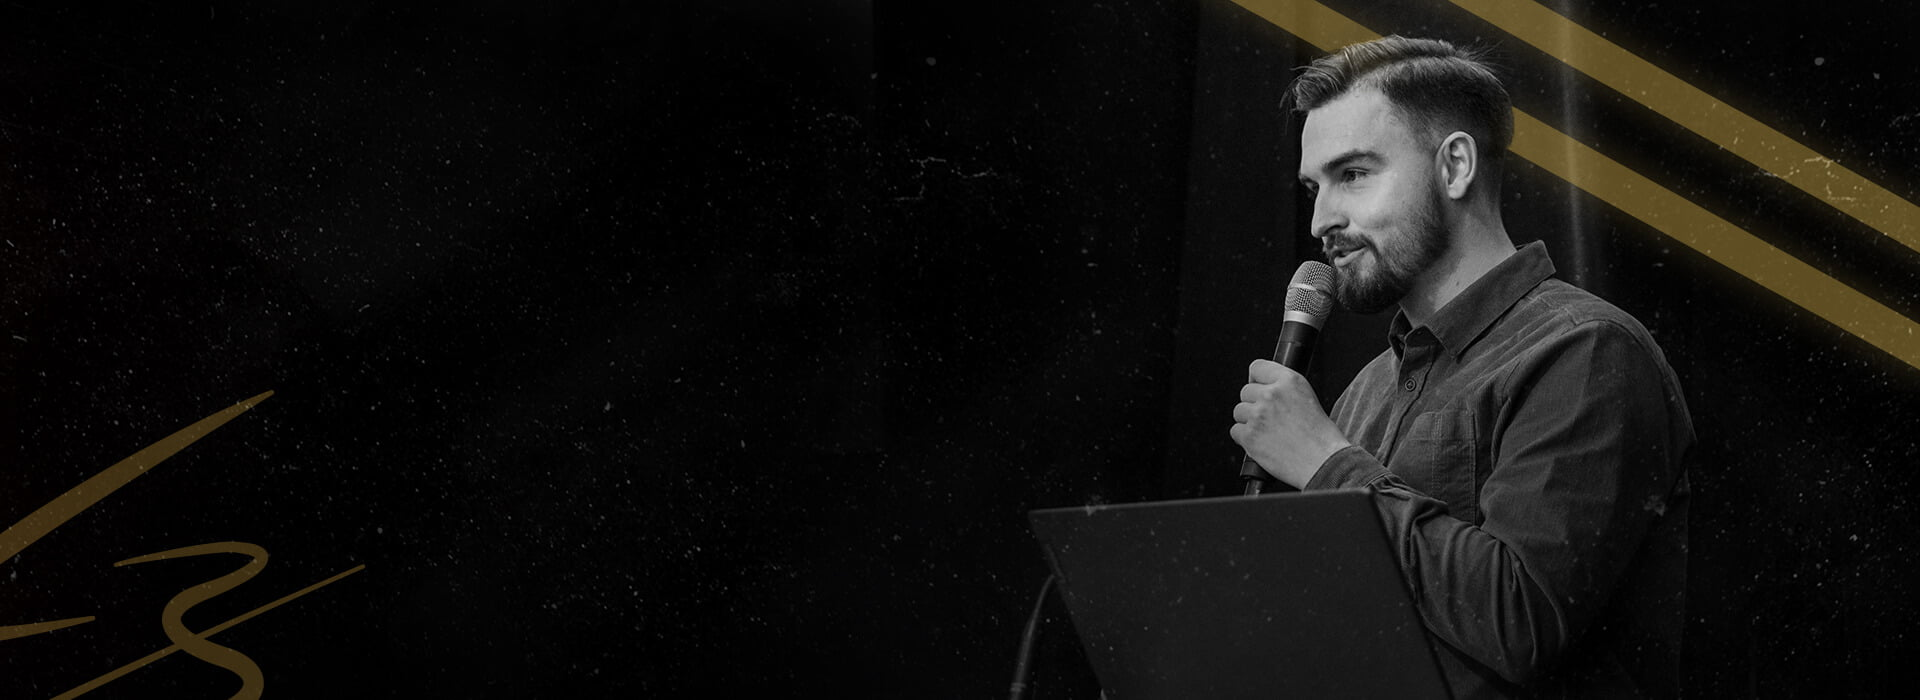
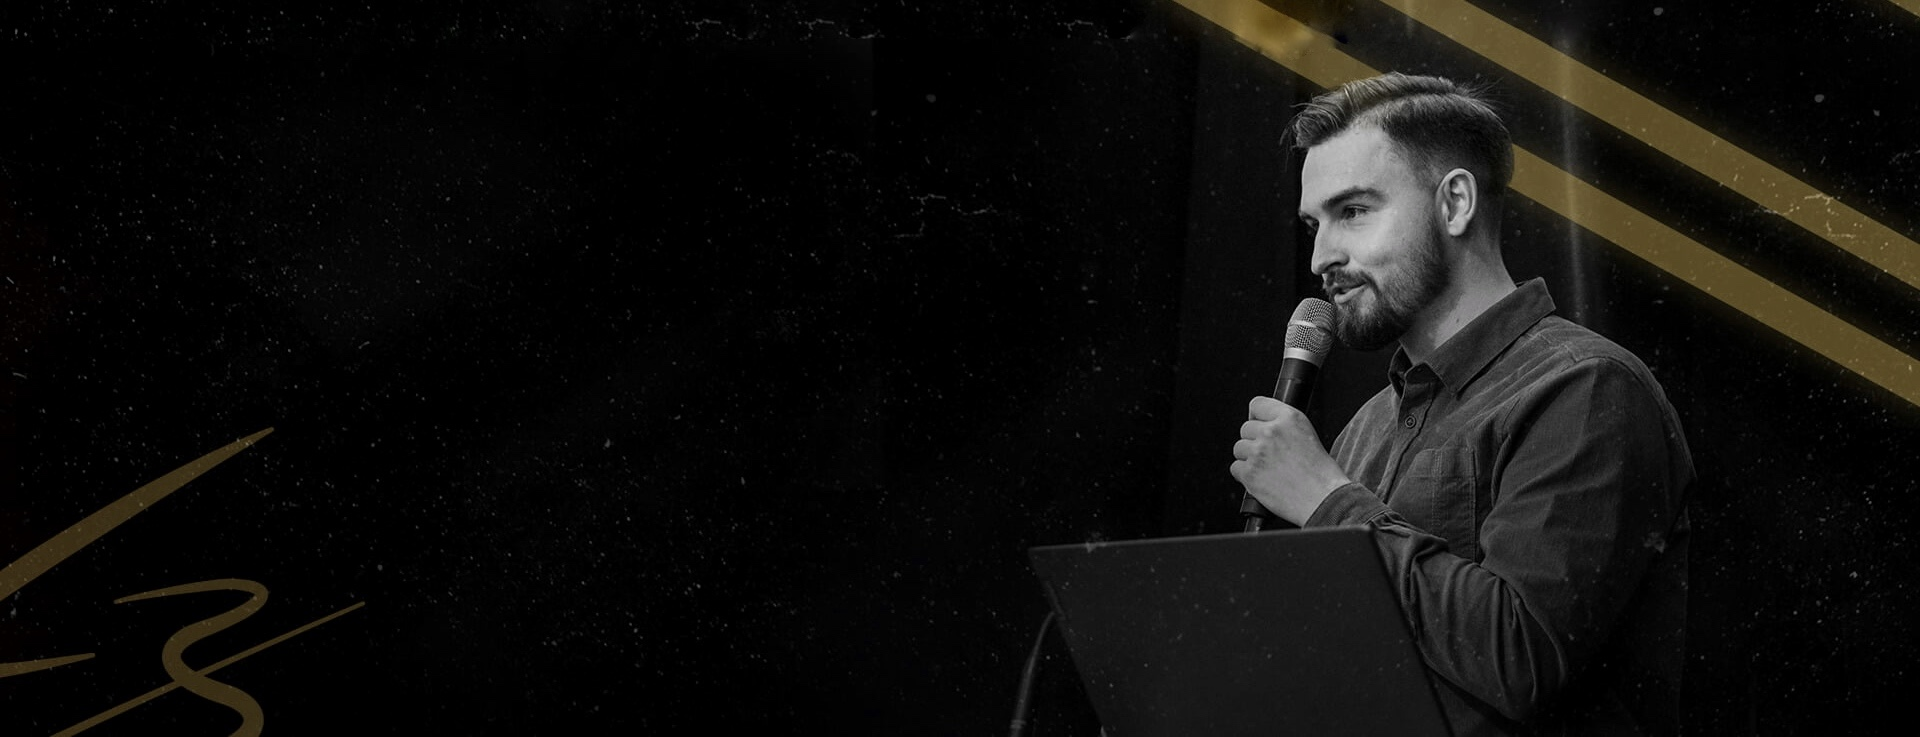
Replace mission background image with updated version

diff --git a/src/components/pages/HomePageClient.tsx b/src/components/pages/HomePageClient.tsx
@@ -268,7 +268,7 @@ export default function HomePageClient() {
       <section
         id="mission"
         className="relative min-h-[80vh] flex items-center bg-fixed bg-cover"
-        style={{ backgroundImage: 'url(/images/BanerDennisMisja.jpg)', backgroundPosition: 'center -4px' }}
+        style={{ backgroundImage: 'url(/images/BanerDennisMisja.jpg)', backgroundPosition: 'center center' }}
       >
         {/* Dark overlay */}
         <div className="absolute inset-0 bg-black/30" />
